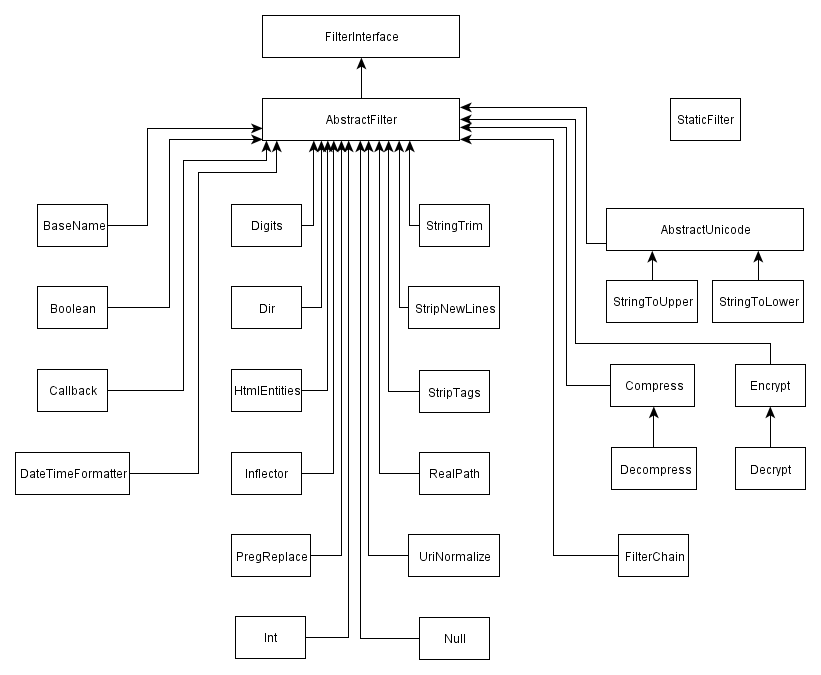
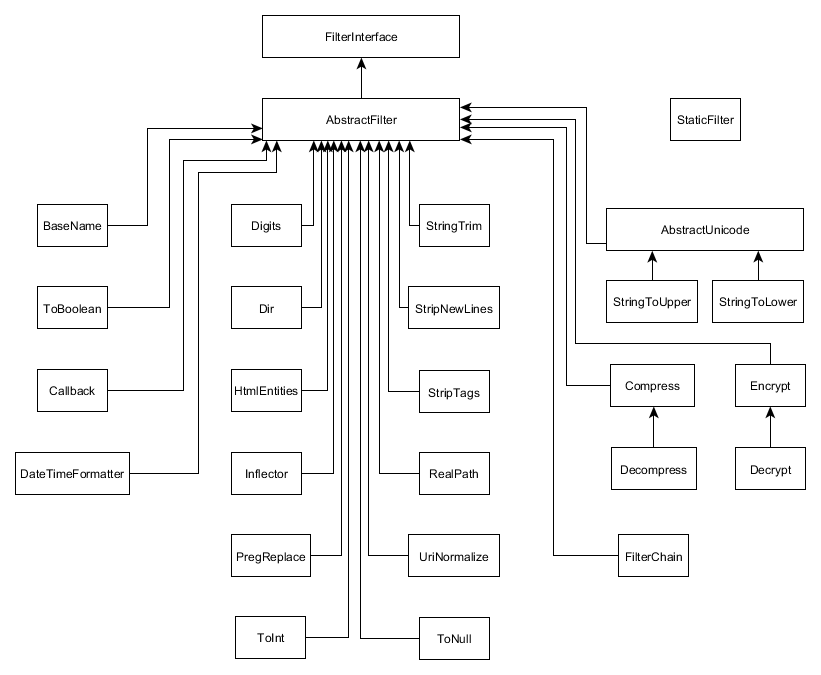
Fixed mistakes in filters chapter

diff --git a/html/en/Transforming_Input_Data_with_Filters.html b/html/en/Transforming_Input_Data_with_Filters.html
@@ -73,7 +73,7 @@
 
 <h1 id="filters">8. Transforming Input Data with Filters</h1>
 <p>In this chapter, we will provide an overview of standard filters that 
-can be used with your forms. A filter is a class which takes some input data, processes it, 
+can be used with your web forms. A filter is a class which takes some input data, processes it, 
 and produces some output data. We will also show how to write a custom filter.</p>
 <blockquote class="notquote information" data-type="information"><p> In general, you can even use filters <em>outside</em> forms to process an arbitrary data.
  For example, filters may be used in a controller action to transform the data passed 
@@ -125,9 +125,15 @@ returns the resulting (filtered) value.</p>
 A filter class inheritance diagram is shown in figure 8.1. From that figure, you can see that base 
 concrete class for most standard filters is the <code>AbstractFilter</code> class, which implements 
 the <code>FilterInterface</code> interface <sup id="fnref:filter_inheritance"><a href="#fn:filter_inheritance" class="footnote-ref" rel="footnote">27</a></sup>. </p>
+<p><span class="image-wrapper">
+<a target="_blank" href="images/filters/filter_inheritance.png">
+<img src="images/filters/filter_inheritance.png" alt="Figure 8.1. Filter class inheritance" /></a>
+<span class="image-caption">Figure 8.1. Filter class inheritance</span>
+</span>
+</p>
 <footnotes id="fn:standard_filters"><p><sup>26)</sup> In this section, we only consider the standard filters belonging to the <code>Zend\Filter</code> namespace,
 although there are other filters that can also be considered standard. For example, the <code>Zend\Filter\File</code> namespace
-contains several filters applicable to processing file uploads (those filters will be covered in the next chapter). 
+contains several filters applicable to processing file uploads (those filters will be covered in the next chapters). 
 Additionally, the <code>Zend\I18n</code> component defines several filter classes that are aware of the user's locale.</p>
 </footnotes>
 <footnotes id="fn:filter_inheritance"><p><sup>27)</sup> From figure 8.1, you may also notice that there are several more base filters: <code>AbstractUnicode</code> filter is the base class 
@@ -147,12 +153,6 @@ By analogy, the <code>Decrypt</code> filter inherits from the <code>Encrypt</cod
 <li>filters manipulating string data (case conversion, trimming, character replacement and removal, URL normalizing, etc.); and</li>
 <li>proxy filters wrapping other filters (<code>Callback</code>, <code>FilterChain</code> and <code>StaticFilter</code>).</li>
 </ul>
-<p><span class="image-wrapper">
-<a target="_blank" href="images/filters/filter_inheritance.png">
-<img src="images/filters/filter_inheritance.png" alt="Figure 8.1. Filter class inheritance" /></a>
-<span class="image-caption">Figure 8.1. Filter class inheritance</span>
-</span>
-</p>
 <div class="table-wrapper">
 <div class="table-caption">Table 8.1. Standard filters</div><table>
 <thead>
@@ -426,7 +426,7 @@ instantiating the standard filters.</p>
 <h2 id="header-193">8.5. Filter's Behavior in Case of Incorrect Input Data</h2>
 <p>Different filters behave differently if you pass it input data that the filter cannot process 
 correctly.</p>
-<p>Some filters (such as the <code>Int</code> filter) will process only scalar data. If you pass an array to such filter,
+<p>Some filters (such as the <code>ToInt</code> filter) will process only scalar data. If you pass an array to such filter,
 it will return the array as is.</p>
 <p>Some filters can work with data in certain format only (e.g., with dates only). If filtering 
 of input data is impossible (for example, when you pass the filter some wrong data that it is unable 
@@ -1375,7 +1375,7 @@ the <code>StripTags</code> filter, which is then followed by the <code>StripNewL
 </span>
 </p>
 <p>To construct the filter chain like in figure 8.4, we can use the following code:</p>
-<pre class=""><code class="language-php">&lt;?php
+<pre class="line-numbers"><code class="language-php">&lt;?php
 use Zend\Filter\FilterChain;
 
 // Instantiate the filter chain.
@@ -1410,13 +1410,14 @@ $filteredValue = $filter-&gt;filter("  name@example.com&lt;html&gt;\n ");
 line 8, we set construct the chain of filters with the <code>setOptions()</code> method. </p>
 <p>The method takes an array configuration which looks the same way as in <code>InputFilter</code>'s <code>add()</code> method.
 The array has "filters" key where you register the filters you want to insert into the chain. For each attached
-filter, you provide the following subkeys:
-  <em> "name" is the fully qualified class name of the filter (e.g., "\Zend\Filter\StringTrim") or its short alias (e.g., "StringTrim");
-  </em> "options" is an array of options passed to the filter; and
-  * "priority" is the optional key which defines the priority of the filter in the chain. Filters</p>
-<pre class=""><code class="language-text">with higher priority are visited first. The default value for the priority is `DEFAULT_PRIORITY`.
-</code></pre>
-<p>Finally, in line 20, we call the <code>filter()</code> method, which walks through the chain and passes the filtered
+filter, you provide the following subkeys:</p>
+<ul>
+<li>"name" is the fully qualified class name of the filter (e.g., <code>StringTrim::class</code>) or its short alias (e.g., "StringTrim");</li>
+<li>"options" is an array of options passed to the filter; and</li>
+<li>"priority" is the optional key which defines the priority of the filter in the chain. Filters
+with higher priority are visited first. The default value for the priority is <code>DEFAULT_PRIORITY</code>.</li>
+</ul>
+<p>Finally, in line 28, we call the <code>filter()</code> method, which walks through the chain and passes the filtered
 value to each filter in turn.</p>
 <h3 id="header-214">8.6.6. Custom Filtering with the Callback Filter</h3>
 <p>Standard filters are designed to be used in frequently appearing situations. For example, you may
@@ -1569,27 +1570,27 @@ class ContactForm extends Form
   }
 }
 </code></pre>
-<p>In lines 10-19 of the code above, we add the "phone" field to the <code>ContactForm</code> form model. The field
+<p>In lines 11-20 of the code above, we add the "phone" field to the <code>ContactForm</code> form model. The field
 is a usual text input field, and we already had some experience of working with such fields earlier.</p>
-<p>Then, in lines 24-39, we add a validation rule for the "phone" field of our form. Under the "filters" 
-key (line 27), we register the <code>Callback</code> filter (here, we use the short alias <code>Callback</code>, but you
-can alternatively use the fully qualified class name <code>\Zend\Filter\Callback</code>). </p>
-<p>The filter takes two options (line 30): the "callback" option and the "callback_params" option. 
+<p>Then, in lines 26-40, we add a validation rule for the "phone" field of our form. Under the "filters" 
+key (line 29), we register the <code>Callback</code> filter (here, we use the short alias <code>Callback</code>, but you
+can alternatively use the fully qualified class name <code>Callback::class</code>). </p>
+<p>The filter takes two options (line 32): the "callback" option and the "callback_params" option. 
 The "callback" option is an array consisting of two elements, which represent the class and the method to call, respectively. In this
 example, the callback is the <code>filterPhone()</code> method of the <code>ContactForm</code> class. We pass the "format" parameter
-to the callback method with the help of "callbackParams" option (line 32). </p>
-<p>In lines 43-79, we define the <code>filterPhone()</code> callback method, which takes two arguments:
+to the callback method with the help of "callbackParams" option (line 34). </p>
+<p>In lines 44-79, we define the <code>filterPhone()</code> callback method, which takes two arguments:
 the <code>$value</code> is the phone number to filter, and the <code>$format</code> is the desired phone number format.
 The <code>$format</code> parameter may either be 'local' (for local format) or 'intl' (for international format).</p>
 <p>In the <code>filterPhone()</code> callback method, we do the following:</p>
 <ul>
-<li><p>First, in line 45, we check if the <code>$value</code> parameter is a scalar and not an array. If the value
+<li><p>First, in line 46, we check if the <code>$value</code> parameter is a scalar and not an array. If the value
 is not a scalar, we return it without change.</p>
 </li>
-<li><p>In line 52, we check the input value's length. We do nothing if the user entered an empty phone number; 
+<li><p>In line 53, we check the input value's length. We do nothing if the user entered an empty phone number; 
 we just return it as is.</p>
 </li>
-<li><p>Then, we remove any non-digit characters (line 58).</p>
+<li><p>Then, we remove any non-digit characters (line 59).</p>
 </li>
 <li><p>If phone length is too short, we pad it with zeroes.</p>
 </li>
@@ -1639,14 +1640,14 @@ the phone filtering algorithm we used with the <code>Callback</code> filter exam
 </tbody>
 </table>
 </div>
-<p>To start, create the <em>PhoneFilter.php</em> file in the <em>Application/Service</em> directory under 
+<p>To start, create the <em>PhoneFilter.php</em> file in the <em>Filter</em> directory under 
 the module's source directory <sup id="fnref:phone_filter_service"><a href="#fn:phone_filter_service" class="footnote-ref" rel="footnote">28</a></sup>. Put the following code 
 into that file:</p>
 <footnotes id="fn:phone_filter_service"><p><sup>28)</sup> The <code>PhoneFilter</code> class may be considered as a service model because its goal is to
-process data, not to store it.</p>
+process data, not to store it. By convention, we store all custom filters under the <code>Filter</code> directory.</p>
 </footnotes>
 <pre class="line-numbers"><code class="language-php">&lt;?php
-namespace Application\Service;
+namespace Application\Filter;
 
 use Zend\Filter\AbstractFilter;
 
@@ -1733,7 +1734,7 @@ class PhoneFilter extends AbstractFilter
   }    
 }
 </code></pre>
-<p>From line 2, you can see that the filter class lives in the <code>Application\Service</code> namespace.</p>
+<p>From line 2, you can see that the filter class lives in the <code>Application\Filter</code> namespace.</p>
 <p>In line 8, we define the <code>PhoneFilter</code> class. We derive our filter class from 
 the <code>AbstractFilter</code> base class to reuse the functionality it provides. Line 4 contains
 the short alias for the <code>AbstractFilter</code> class.</p>
@@ -1746,7 +1747,7 @@ named "format". This key will contain the phone format option for our filter.</p
 When constructing the filter manually, you may omit this parameter. However, when the filter is 
 constructed by the factory class, the factory will pass filter options to the filter's constructor 
 through this argument.</p>
-<p>In lines 31-37 and 43-46, we have the <code>setFormat()</code> and <code>getFormat()</code> methods that allow to set and 
+<p>In lines 31-40 and 43-46, we have the <code>setFormat()</code> and <code>getFormat()</code> methods that allow to set and 
 retrieve the current phone format, respectively.</p>
 <p>In lines 49-86, we have the <code>filter()</code> method. This method encapsulates the phone number filtering 
 algorithm. It takes the <code>$value</code> parameter, transforms it by taking the selected phone format in 
@@ -1775,7 +1776,7 @@ this book. Open the "http://localhost/contactus" page in your web browser. If yo
 number in an incorrect format, the filter will fix the phone number.</p>
 <p>If you wish, you can use the <code>PhoneFilter</code> outside of forms, as shown in the code example below:</p>
 <pre class=""><code class="language-php">&lt;?php 
-use Application\Service\PhoneFilter;
+use Application\Filter\PhoneFilter;
 
 // Create PhoneFilter filter.
 $filter = new PhoneFilter();
@@ -1852,7 +1853,7 @@ capable of filtering phone numbers.</p>
             <div class="copyright">
                 Copyright (c) 2016 by Oleg Krivtsov            </div>
             <div class="generated-by">
-                Generated using <a href="https://github.com/olegkrivtsov/openbook">OpenBook</a> on 2016-08-09 at 10:30            </div>
+                Generated using <a href="https://github.com/olegkrivtsov/openbook">OpenBook</a> on 2016-08-09 at 14:27            </div>
         </div>    
     </div>
 </footer>

diff --git a/html/en/Collecting_User_Input_with_Forms.html b/html/en/Collecting_User_Input_with_Forms.html
@@ -2681,7 +2681,7 @@ input errors. If the data is correct, you process the data with your business lo
             <div class="copyright">
                 Copyright (c) 2016 by Oleg Krivtsov            </div>
             <div class="generated-by">
-                Generated using <a href="https://github.com/olegkrivtsov/openbook">OpenBook</a> on 2016-08-09 at 10:30            </div>
+                Generated using <a href="https://github.com/olegkrivtsov/openbook">OpenBook</a> on 2016-08-09 at 14:27            </div>
         </div>    
     </div>
 </footer>

diff --git a/html/en/Appendix_A__Configuring_Web_Development_Environment.html b/html/en/Appendix_A__Configuring_Web_Development_Environment.html
@@ -669,7 +669,7 @@ to navigate, edit and debug your ZF3-based application in an effective manner.</
             <div class="copyright">
                 Copyright (c) 2016 by Oleg Krivtsov            </div>
             <div class="generated-by">
-                Generated using <a href="https://github.com/olegkrivtsov/openbook">OpenBook</a> on 2016-08-09 at 10:30            </div>
+                Generated using <a href="https://github.com/olegkrivtsov/openbook">OpenBook</a> on 2016-08-09 at 14:27            </div>
         </div>    
     </div>
 </footer>

diff --git a/html/en/Introduction_to_Zend_Framework_3.html b/html/en/Introduction_to_Zend_Framework_3.html
@@ -446,7 +446,7 @@ license and can be used for free in both commercial and open-source applications
             <div class="copyright">
                 Copyright (c) 2016 by Oleg Krivtsov            </div>
             <div class="generated-by">
-                Generated using <a href="https://github.com/olegkrivtsov/openbook">OpenBook</a> on 2016-08-09 at 10:30            </div>
+                Generated using <a href="https://github.com/olegkrivtsov/openbook">OpenBook</a> on 2016-08-09 at 14:27            </div>
         </div>    
     </div>
 </footer>

diff --git a/html/en/Preface.html b/html/en/Preface.html
@@ -174,7 +174,7 @@ located under every page. Alternatively, you can contact the author through his 
             <div class="copyright">
                 Copyright (c) 2016 by Oleg Krivtsov            </div>
             <div class="generated-by">
-                Generated using <a href="https://github.com/olegkrivtsov/openbook">OpenBook</a> on 2016-08-09 at 10:30            </div>
+                Generated using <a href="https://github.com/olegkrivtsov/openbook">OpenBook</a> on 2016-08-09 at 14:27            </div>
         </div>    
     </div>
 </footer>

diff --git a/html/ru/Предисловие.html b/html/ru/Предисловие.html
@@ -175,7 +175,7 @@ HTTP запрос, GET и POST переменные, пространства и
             <div class="copyright">
                 Copyright (c) 2016 by Oleg Krivtsov            </div>
             <div class="generated-by">
-                Generated using <a href="https://github.com/olegkrivtsov/openbook">OpenBook</a> on 2016-08-09 at 10:30            </div>
+                Generated using <a href="https://github.com/olegkrivtsov/openbook">OpenBook</a> on 2016-08-09 at 14:27            </div>
         </div>    
     </div>
 </footer>

diff --git a/html/ru/Приложение_A__Настройка_среды_веб_разработки.html b/html/ru/Приложение_A__Настройка_среды_веб_разработки.html
@@ -655,7 +655,7 @@ to navigate, edit and debug your ZF3-based application in an effective manner.</
             <div class="copyright">
                 Copyright (c) 2016 by Oleg Krivtsov            </div>
             <div class="generated-by">
-                Generated using <a href="https://github.com/olegkrivtsov/openbook">OpenBook</a> on 2016-08-09 at 10:30            </div>
+                Generated using <a href="https://github.com/olegkrivtsov/openbook">OpenBook</a> on 2016-08-09 at 14:27            </div>
         </div>    
     </div>
 </footer>

diff --git a/html/en/Appendix_C__Introduction_to_Twitter_Bootstrap.html b/html/en/Appendix_C__Introduction_to_Twitter_Bootstrap.html
@@ -697,7 +697,7 @@ version of Bootstrap from the project's page and customize it as you wish.</p>
             <div class="copyright">
                 Copyright (c) 2016 by Oleg Krivtsov            </div>
             <div class="generated-by">
-                Generated using <a href="https://github.com/olegkrivtsov/openbook">OpenBook</a> on 2016-08-09 at 10:30            </div>
+                Generated using <a href="https://github.com/olegkrivtsov/openbook">OpenBook</a> on 2016-08-09 at 14:27            </div>
         </div>    
     </div>
 </footer>

diff --git a/html/en/Website_Operation.html b/html/en/Website_Operation.html
@@ -1243,7 +1243,7 @@ a PHP class, but in general it can be a variable or an array, if needed.</p>
             <div class="copyright">
                 Copyright (c) 2016 by Oleg Krivtsov            </div>
             <div class="generated-by">
-                Generated using <a href="https://github.com/olegkrivtsov/openbook">OpenBook</a> on 2016-08-09 at 10:30            </div>
+                Generated using <a href="https://github.com/olegkrivtsov/openbook">OpenBook</a> on 2016-08-09 at 14:27            </div>
         </div>    
     </div>
 </footer>

diff --git a/html/en/Uploading_Files_with_Forms.html b/html/en/Uploading_Files_with_Forms.html
@@ -1509,7 +1509,7 @@ for doing file uploads and validating the uploaded files.</p>
             <div class="copyright">
                 Copyright (c) 2016 by Oleg Krivtsov            </div>
             <div class="generated-by">
-                Generated using <a href="https://github.com/olegkrivtsov/openbook">OpenBook</a> on 2016-08-09 at 10:30            </div>
+                Generated using <a href="https://github.com/olegkrivtsov/openbook">OpenBook</a> on 2016-08-09 at 14:27            </div>
         </div>    
     </div>
 </footer>

diff --git a/html/en/Appendix_B__Introduction_to_PHP_Development_in_NetBeans_IDE.html b/html/en/Appendix_B__Introduction_to_PHP_Development_in_NetBeans_IDE.html
@@ -482,7 +482,7 @@ to determine the "bottle necks" and performance issues.</p>
             <div class="copyright">
                 Copyright (c) 2016 by Oleg Krivtsov            </div>
             <div class="generated-by">
-                Generated using <a href="https://github.com/olegkrivtsov/openbook">OpenBook</a> on 2016-08-09 at 10:30            </div>
+                Generated using <a href="https://github.com/olegkrivtsov/openbook">OpenBook</a> on 2016-08-09 at 14:27            </div>
         </div>    
     </div>
 </footer>
